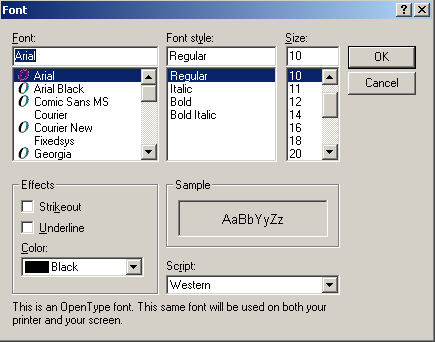
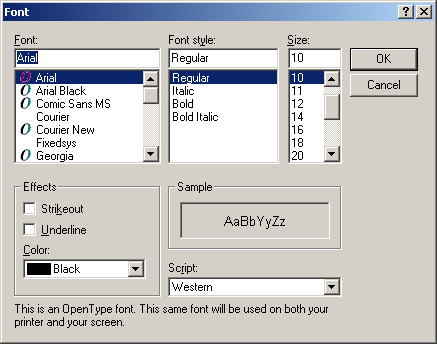
The Font box counted, and the capture it is counted against corrected
21.3% of it, and one style bit is 28,416 of the 32,050.

  differing pixels   32,050 of 150,328
    the three lists  28,416   ween32 has no CBS_SIMPLE
    the note            954   the static is there and its text is not
    everything else   2,680   of which 60 are the caption's bold title
                              and 415 are Arial 10 against MS Sans Serif 8,
                              which is state and not geometry

**The machine's Font, Font style and Size controls are CBS_SIMPLE**:
probe/font.txt reads 50010B51, 50010241, 50010B51, and 0x0001 is
CBS_SIMPLE -- an edit with its list always open below it. ween32's combo
box treats every combo as a dropdown, so where the machine shows three
lists ours shows three closed fields and dialog face. The Color and
Script combos are 50010253, CBS_DROPDOWNLIST, and those ours draws right.

**And the capture was wrong, in the way this very file warns about two
sections up.** I cropped it by walking out from inside until the pixels
stopped being the dialog's -- and a dialog's frame has a white highlight
row in it, so the walk stopped on the frame's own second row and cut two
columns and two rows off the top and left. The corner check passed
anyway, because the truncated rectangle's corners are also COLOR_3DFACE
and COLOR_3DDKSHADOW. Corrected by asking what is *outside* the dialog
instead: at any row through its middle the pixels to the left are the
white of WordPad's client, and the dialog begins at the first
[…]

Changed region(s): [[0.0, 0.0877, 0.9563, 0.4971], [0.0, 0.5263, 0.8069, 0.9649], [0.0, 0.0, 1.0, 0.0877]]

diff --git a/docs/testing.md b/docs/testing.md
@@ -1392,6 +1392,59 @@ Four answers from the same boot, none of them a pixel:
   inches**, which is 8.5" of paper less its 1.25" left margin -- the paper's
   own right edge, not the ruler's end.
 
+### The Font box, counted
+
+`tools/refcapture/font-machine.png` is WordPad's own Font dialog on the
+machine, **437x344**, the whole window including its frame. Ours is rendered
+by driving WordPad headlessly and keeping the frame the dialog appears in:
+
+```sh
+cd wordpad && zig build
+WEEN32_HEADLESS=1 WEEN32_DPI=96 WEEN32_BMP=/tmp/fb%d.bmp \
+  WEEN32_SCRIPT='w:200 a:79 w:200 k:70 w:600' ./zig-out/bin/wordpad
+# a %d in the path writes one file per frame, which is the only way to catch
+# a modal window; the 437x344 one is the dialog.
+```
+
+```
+differing pixels   32,050 of 150,328   21.3%
+  the three lists  28,416   ween32 has no CBS_SIMPLE
+  the note            954   the static is there and its text is not
+  everything else   2,680   of which 60 are the caption's bold title
+```
+
+**The 28,416 are one missing style bit.** The machine's Font, Font style and
+Size controls are `ComboBox` with **`CBS_SIMPLE`** -- `probe/font.txt` reads
+`50010B51`, `50010241`, `50010B51`, and `0x0001` is `CBS_SIMPLE` -- which
+draws an edit with its list **always open below it**. ween32's combo box
+treats every combo as a dropdown, so where the machine shows three lists of
+fonts, styles and sizes, ours shows three closed fields and dialog face. The
+Color and Script combos are `50010253`, `CBS_DROPDOWNLIST`, and those two ours
+draws correctly.
+
+**The 954 are the note** at the bottom -- *"This is an OpenType font. This
+same font will be used on both your printer and your screen."* -- which is
+static 1093 in the template. ween32 creates the static and never gives it
+text.
+
+**And 415 of the rest are state rather than drawing**: WordPad's box opens on
+Arial 10 and ours on MS Sans Serif 8, so the three fields hold different
+strings. That is the frame's call and the control's `CF_INITTOLOGFONTSTRUCT`
+handling, not the dialog's geometry.
+
+**The capture was wrong when it was first taken, and the way it was wrong is
+written in this file two sections up.** It was cropped by walking out from
+inside the dialog until the pixels stopped being the dialog's -- and **a
+dialog's frame has a white highlight in it**, so the walk stopped on the
+frame's own second row and cut two columns and two rows off the top and left.
+The corner check passed anyway: the truncated rectangle's corners are also
+`COLOR_3DFACE` and `COLOR_3DDKSHADOW`. What settles it is the *outside*: at
+any row through the dialog's middle the pixels left of it are the white of
+WordPad's client, and the dialog begins at the first `COLOR_3DFACE` after
+them. Corrected, it is 437x344 -- **exactly the size ween32 draws**, so the
+outer geometry agrees and the first version of this section would have
+reported a two-pixel disagreement that was mine.
+
 ### What a search does
 
 `EM_FINDTEXTEX`'s own answers, out of `ctlprobe.c`'s `finding` block, against
